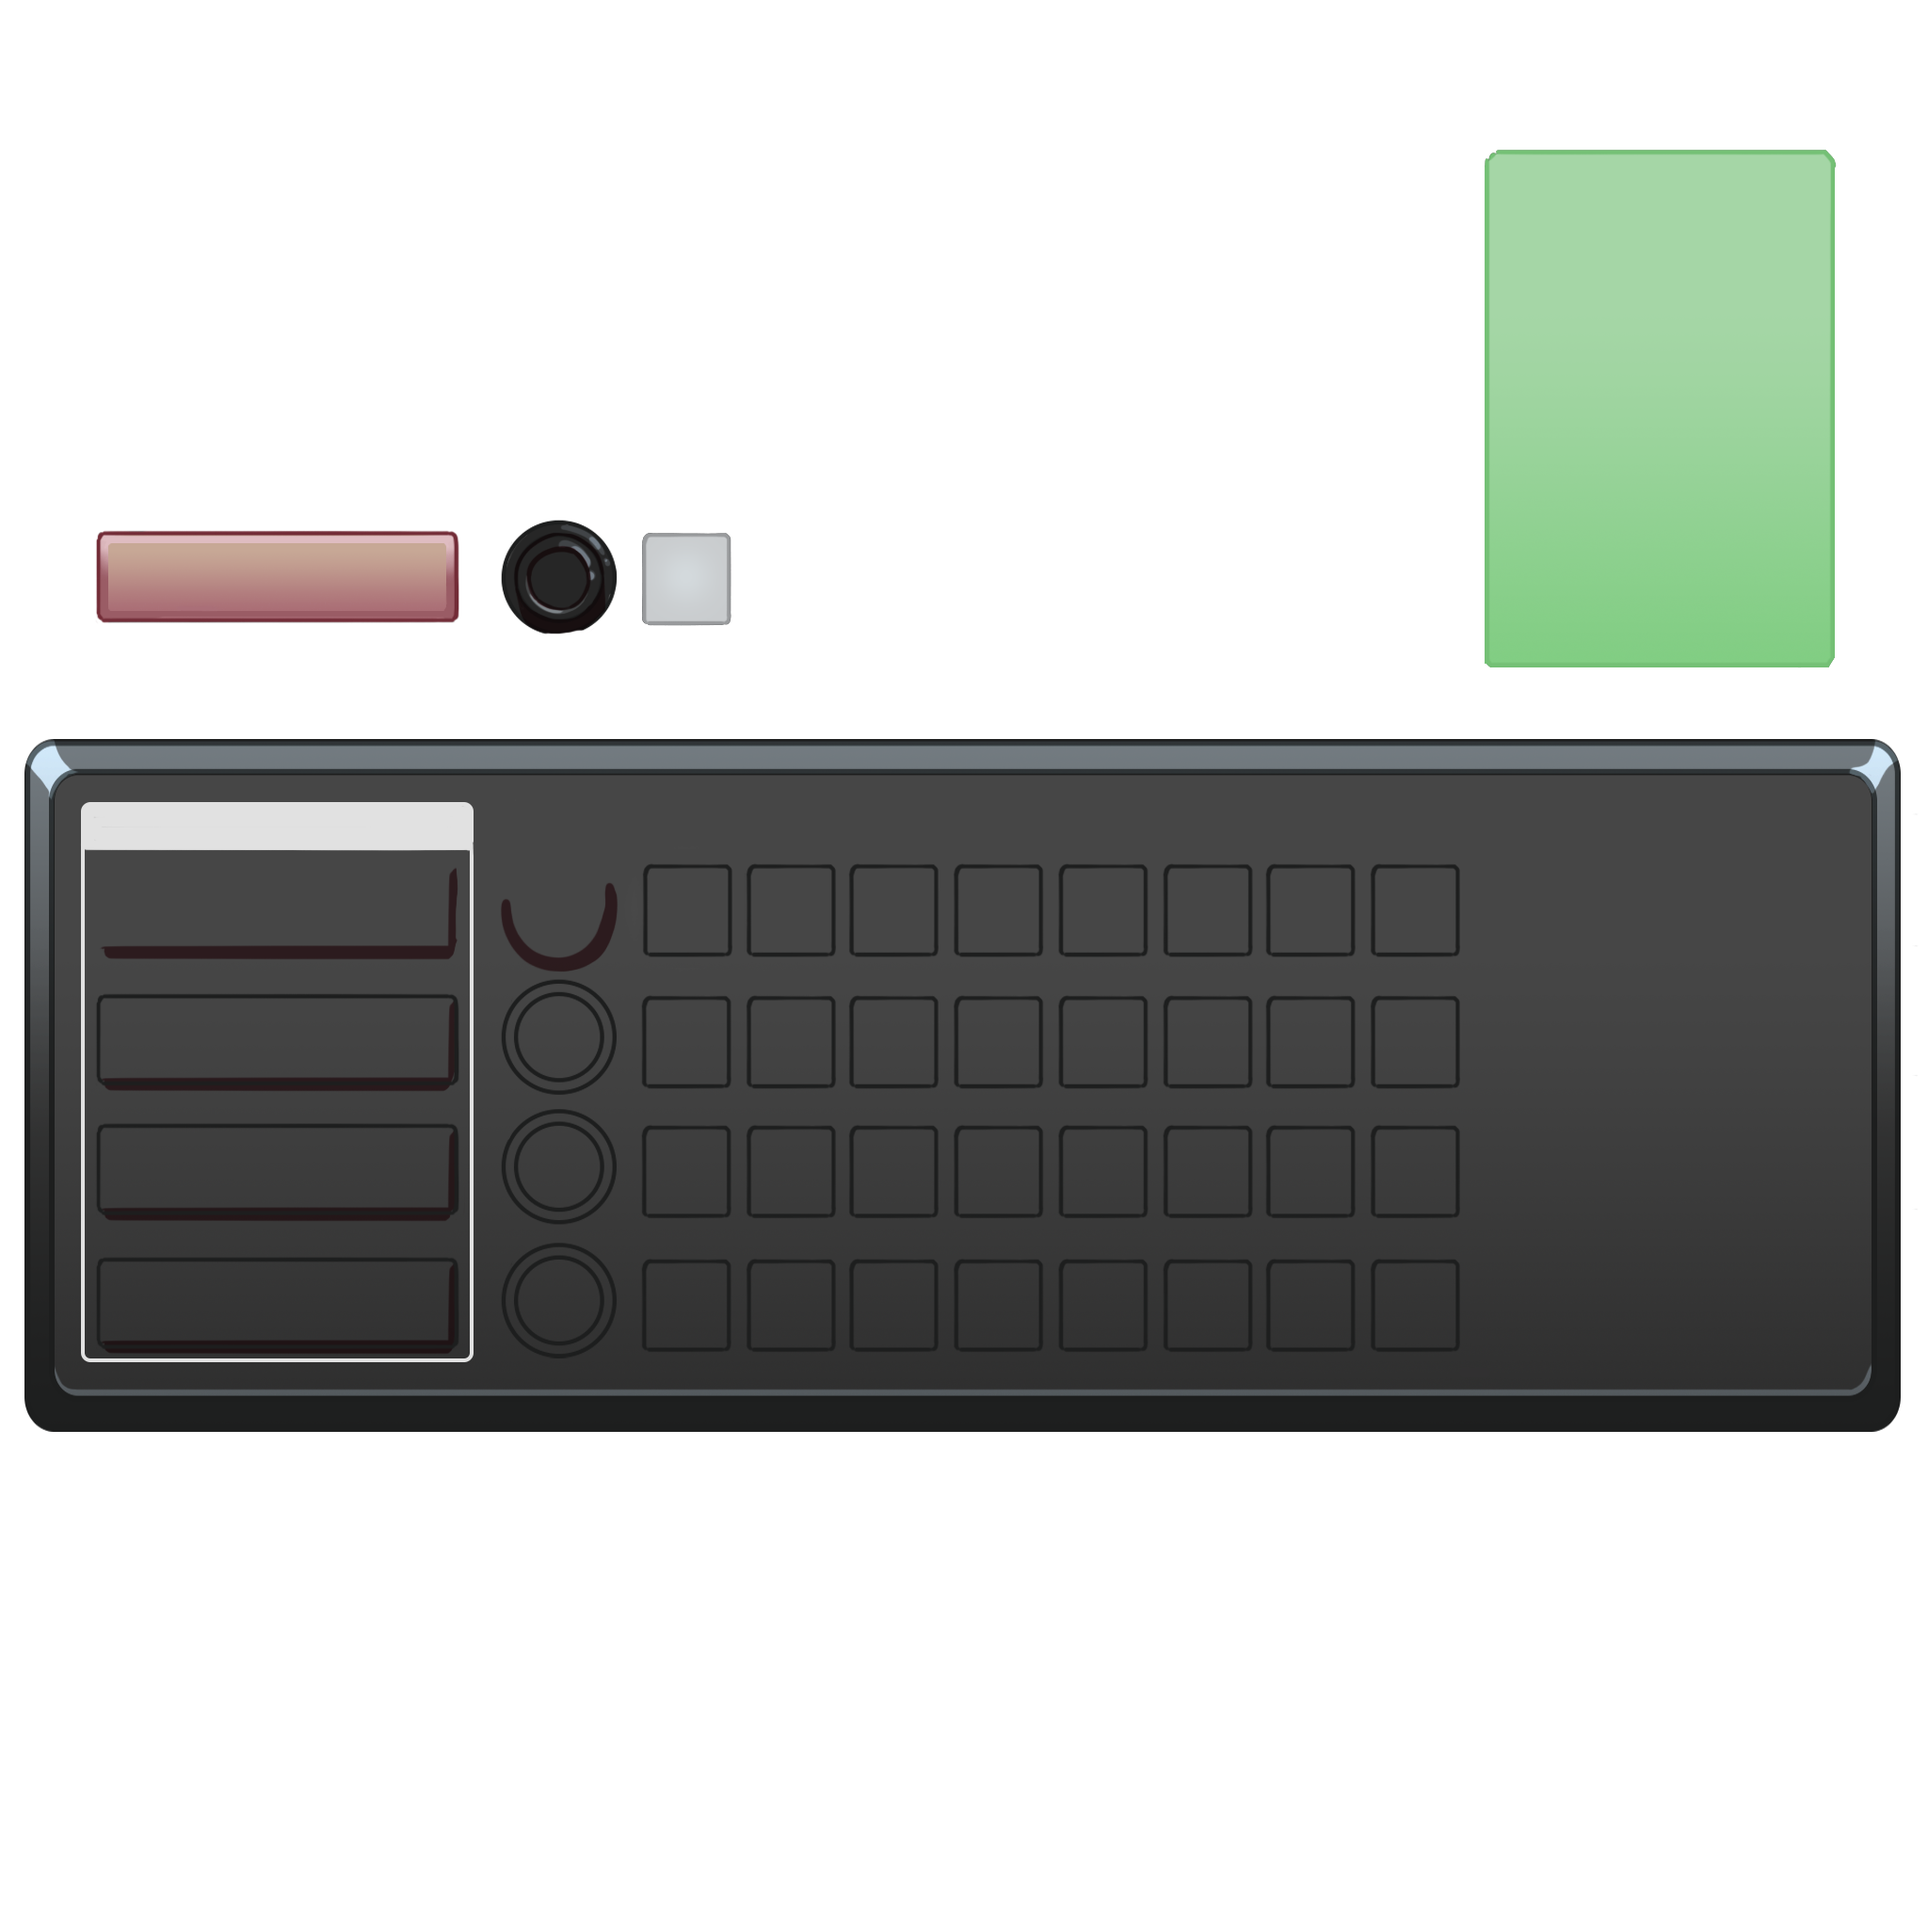
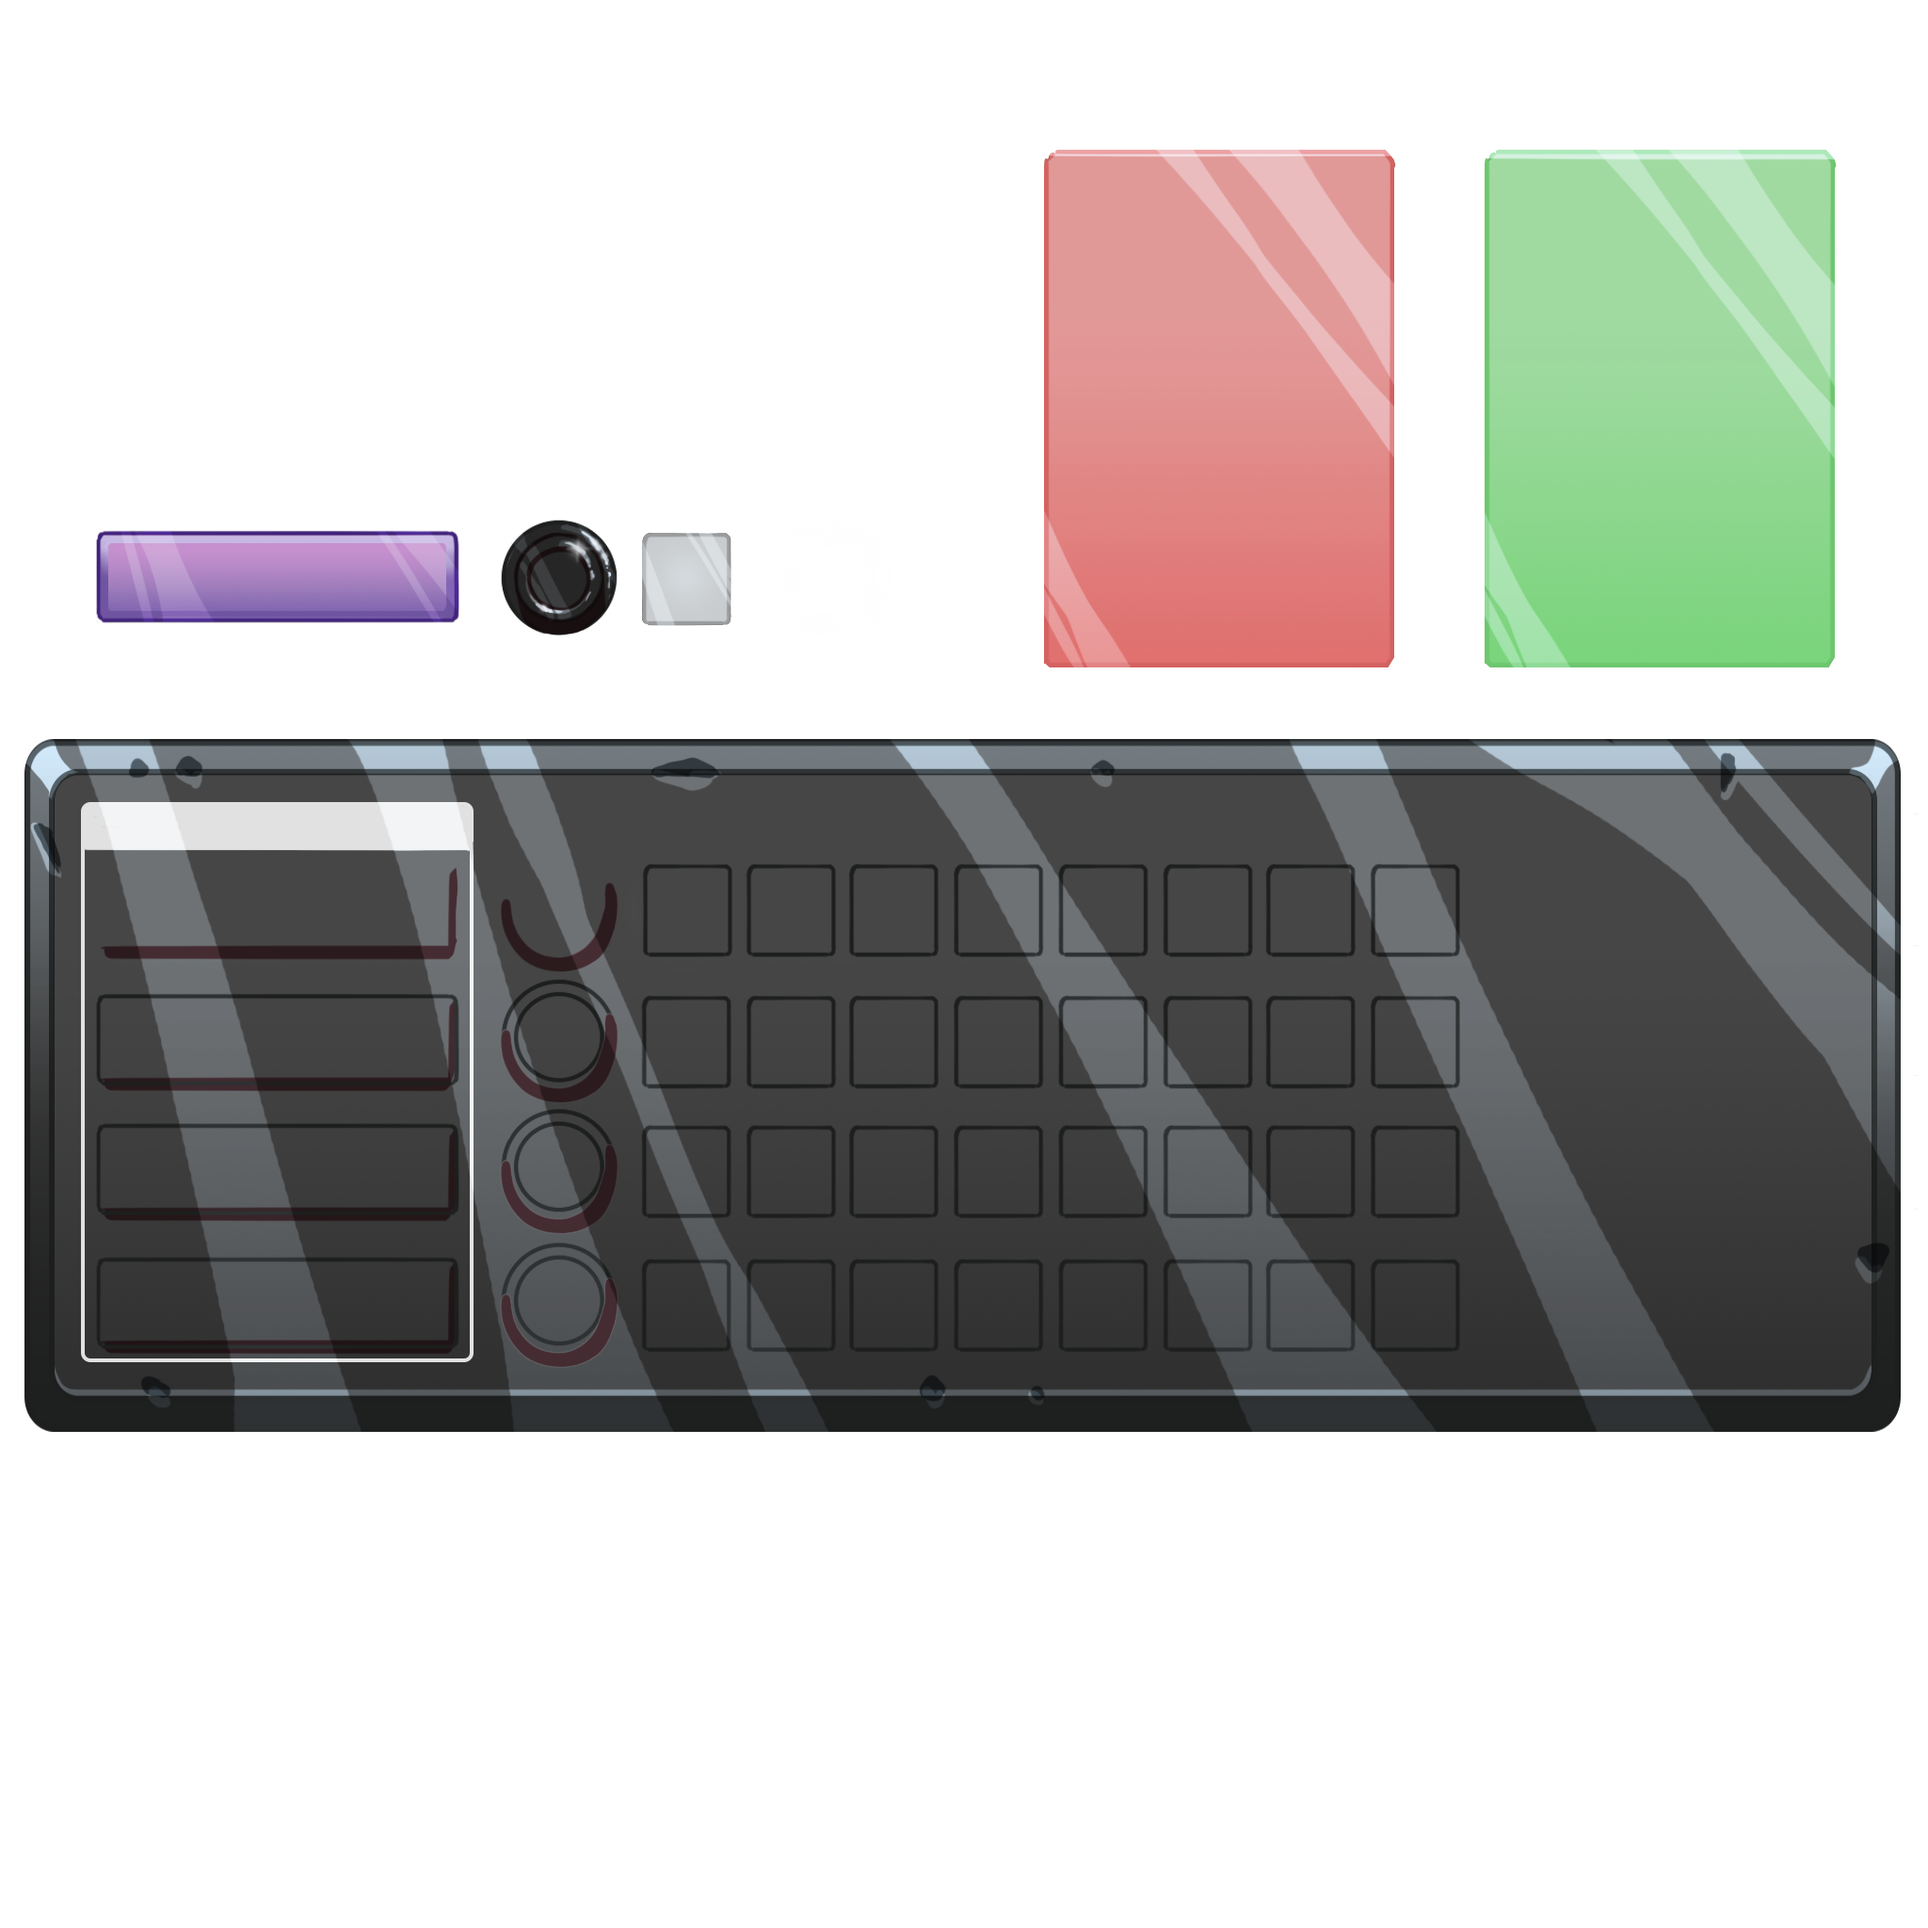
Improved beat maker UI glow

diff --git a/Project/Assets/Scripts/UI/BeatButton.cs b/Project/Assets/Scripts/UI/BeatButton.cs
@@ -7,8 +7,10 @@ public class BeatButton : MonoBehaviour
 {
     public Image beatImage;
     public Image checkedImage;
+    private Color checkedColor;
     public float fadeOutTime;
     public float fadeOutDuration = 0.5f;
+    public Toggle toggle;
 
     void Start()
     {
@@ -18,6 +20,7 @@ public class BeatButton : MonoBehaviour
     public void SetColor(Color color)
     {
         checkedImage.color = color;
+        checkedColor = color;
     }
 
     void Update()
@@ -25,7 +28,10 @@ public class BeatButton : MonoBehaviour
         if(fadeOutTime > 0)
         {
             fadeOutTime -= Time.deltaTime;
-            beatImage.color = new Color(1, 1, 1, fadeOutTime / fadeOutDuration);
+            Color color = new Color(1, 1, 1, 1);
+            if(toggle.isOn)
+                color = checkedColor;
+            beatImage.color = new Color(color.r * 1.2f, color.g * 1.2f, color.b * 1.2f, fadeOutTime / fadeOutDuration);
         }
     }
 
